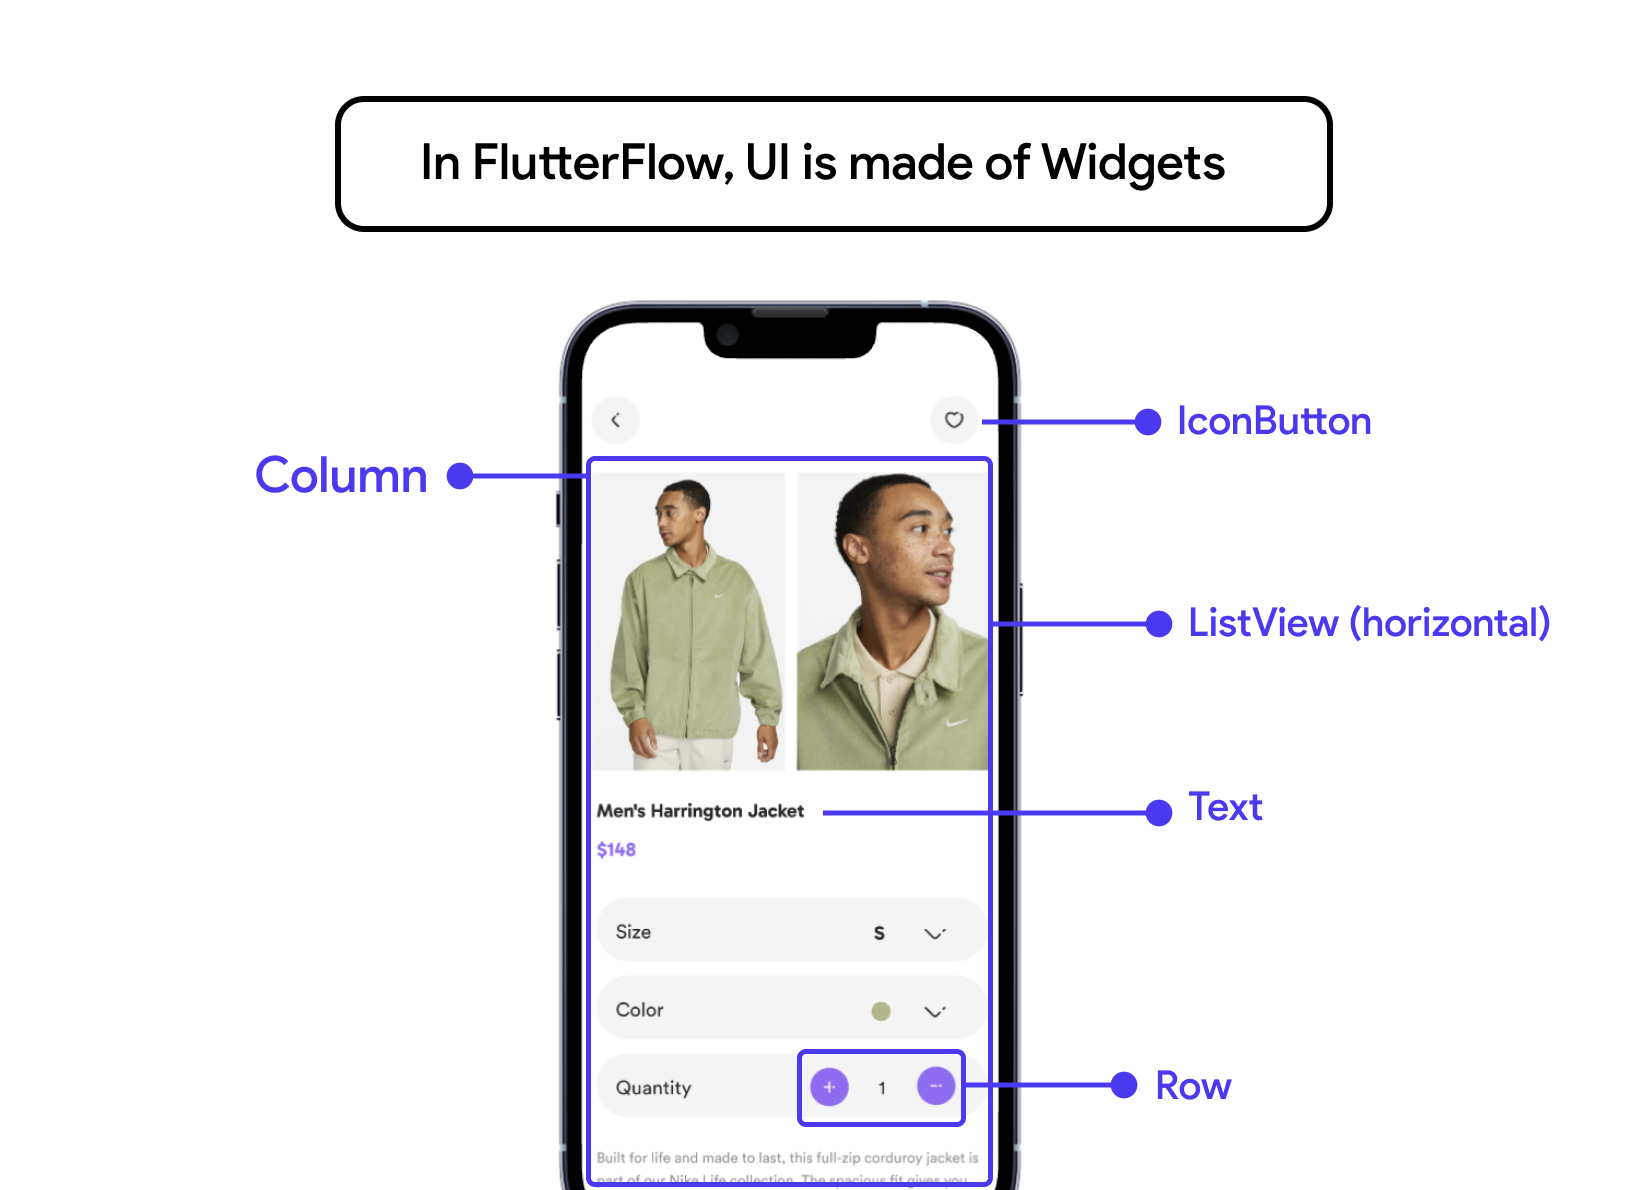
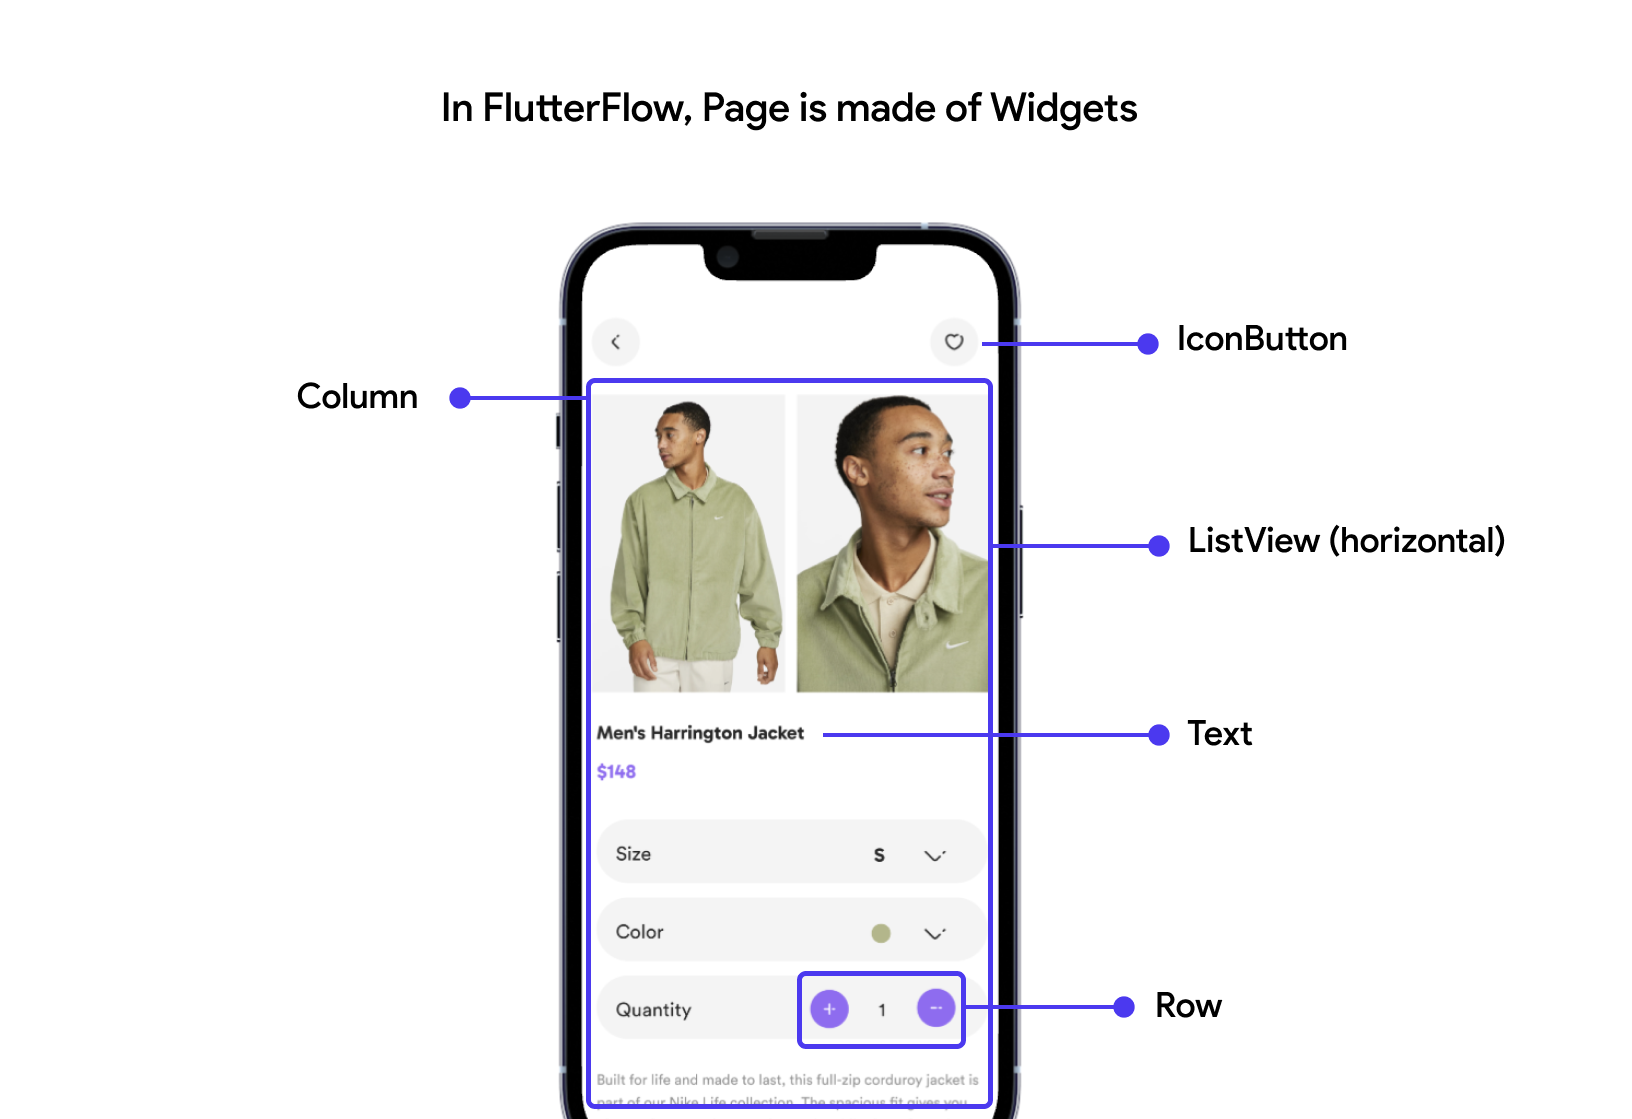
Add missing widget images

diff --git a/docs/resources/ui/overview.md b/docs/resources/ui/overview.md
@@ -54,17 +54,20 @@ ProfilePage, etc.
 
 ## Widgets
 
-A Page usually contains a combination of widgets and components. Let's talk about widgets first, 
+A Page usually contains a combination of widgets and components. 
+![everything-widget.png](imgs%2Feverything-widget.png)
+
+Let's talk about widgets first, 
 which are the the atomic elements or building blocks of the UI structure in FlutterFlow. 
 
 Each widget can be thought of as an atom or a molecule, depending on its complexity and its parent-child
 relationship. For example, an atomic widget (such as `TextField`) cannot hold a child element, but 
 molecular widgets (such as `Column` or `Row`) can.
 
-This brings us to the concept of the **Widget Tree**, a visual and structural representation of how
-widgets—atomic & molecular elements—organized within a **Page**. It outlines the
-parent-child relationships that define the layout and functionality of your UI, analogous to how
-atoms and molecules interact in atomic design.
+This brings us to the concept of the **Widget Tree**. 
+
+### Widget Tree
+Widget Tree is a visual and structural representation of how widgets—atomic & molecular elements—organized within a **Page**. It outlines the parent-child relationships that define the layout and functionality of your UI, analogous to how atoms and molecules interact in atomic design.
 
 :::info[WIDGET TREE BREAKDOWN]
 ![tree.png](imgs/tree.png)
@@ -90,6 +93,9 @@ structured using a hierarchy of widgets that define its layout and functionality
 Each widget in this tree plays a specific role in constructing the user interface, from basic
 elements like `Text` and `Image` to layout structures like `Row`s and `Column`s that organize these
 elements.
+
+Here's how this widget tree would be represented in FlutterFlow:
+![widget-tree-new.png](imgs%2Fwidget-tree-new.png)
 :::
 
 Understanding the widget tree is crucial for developers using FlutterFlow because it helps visualize
